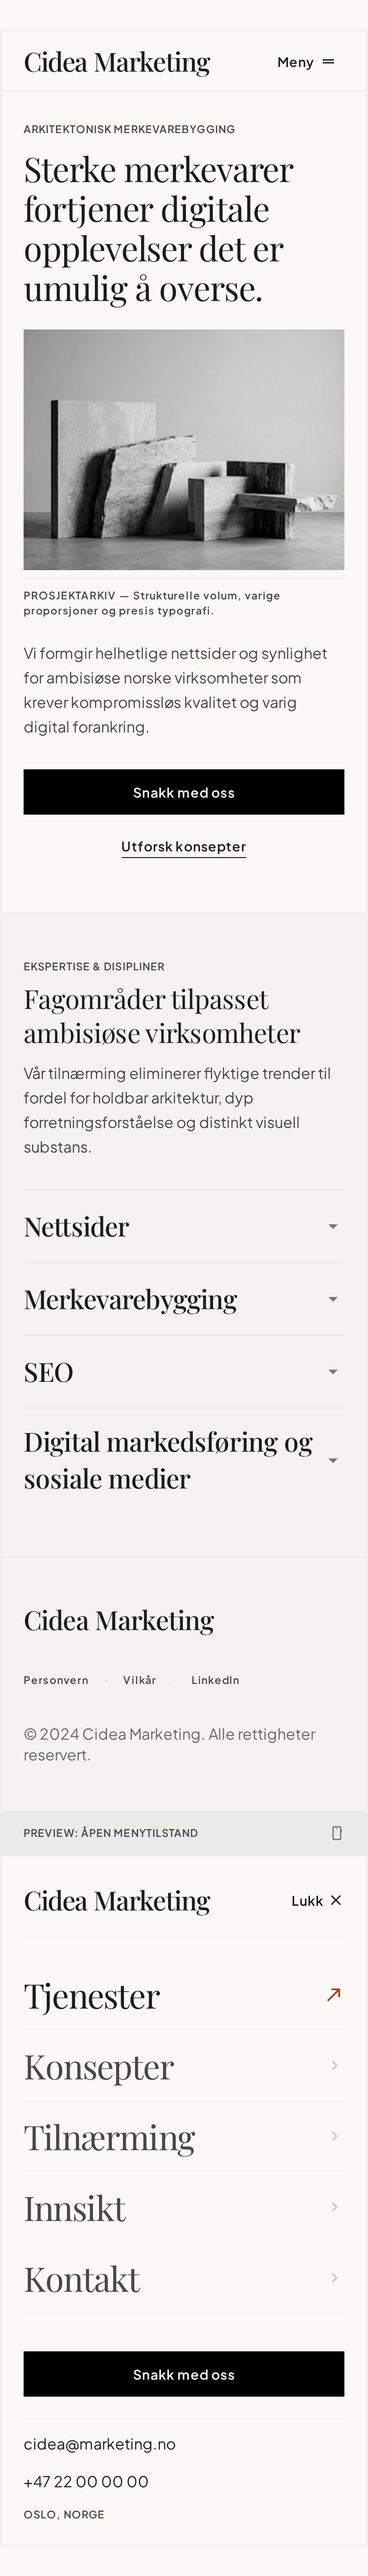
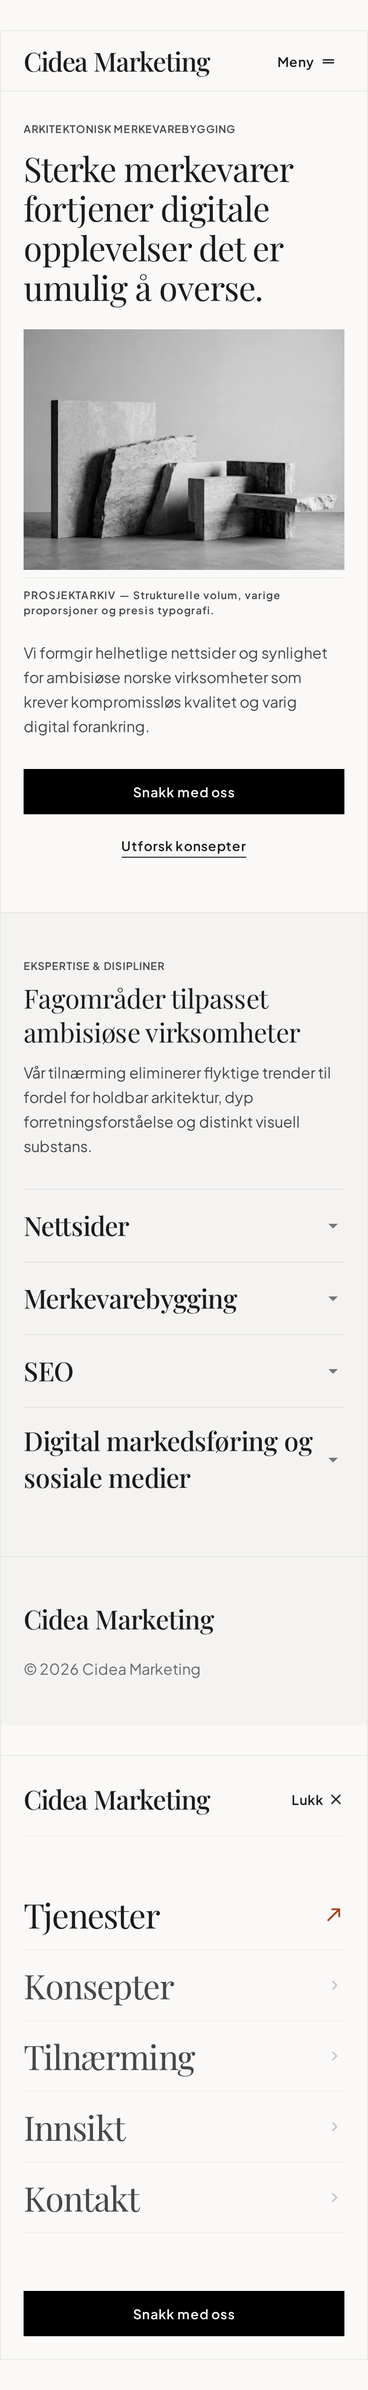
Phase 2: three Stitch directions (A/B/C) with desktop + mobile, fixes, credit/call log

diff --git a/docs/cinematic-pilot/phase2/README.md b/docs/cinematic-pilot/phase2/README.md
@@ -1,41 +1,66 @@
-# Fase 2/9 – tre designretninger i Google Stitch
+# Fase 2/9 – tre designretninger i Google Stitch (runde 1)
 
-**Status:** PÅGÅR. Konsept A er generert (desktop + mobil). B og C er ikke startet; kredittkontrollen er gjennomført, og de er klare for kontrollert generering.
-**Metode:** prompt = [`prompts/00-common.md`](prompts/00-common.md) (felles krav fra `STITCH-CREATIVE-BRIEF.md`) + konseptets retningstekst. Hvert konsept har sitt **eget nye Stitch-prosjekt**, fordi designsystemet ligger på prosjektnivå. Eksisterende Stitch-prosjekter er ikke endret.
-**Kredittramme for runde 1:** maks 200 av 400 daglige kreditter. Startnivå (brukerens avlesning): 0 av 400 brukt. Etter ferdigstilt konsept A viste brukerens kontroll **9 / 400**.
+**Status:** tre konsepter med desktop- og mobilutkast er **klare for visuell vurdering** (ChatGPT + bruker). Ingen retning er valgt. Det er ikke skrevet noe kode. Fasegaten krever at brukeren velger én retning, eller ber om én fokusert revisjonsrunde.
+**Oversikt:** [oversikt-runde1.png](oversikt-runde1.png) viser toppen av alle tre, desktop og mobil side om side.
 
-Stitch-API-et oppgir ikke kredittforbruk, så forbruket leses av i Stitch-kontoen av brukeren etter hvert konsept.
+**Metode:** hver prompt = [`prompts/00-common.md`](prompts/00-common.md) (felles krav fra `STITCH-CREATIVE-BRIEF.md`) + konseptets retningstekst. Hvert konsept fikk sitt **eget nye Stitch-prosjekt**, fordi Stitch lager designsystemet per prosjekt fra første prompt. Farger og fonter er valgt av Stitch, ikke av Claude. Eksisterende Stitch-prosjekter («Cidea Marketing Agency Redesign», «API Key Finder Guide») er **ikke endret**. Alle kall gikk via Stitch MCP-API-et med brukerens nøkkel; ingen betalte tjenester.
 
-## Kredittlogg
+## Konsepter
 
-| Steg | Kall | Modell | Tid | Kreditter totalt etter steg (brukerens avlesning) |
+| | A · Skulpturell redaksjon | B · Digital avantgarde | C · Fremtidig håndverk (v2) |
+|---|---|---|---|
+| Stitch-prosjekt | `8918244886387639826` | `9677197220599622835` | `93182330119187096` |
+| Lenke (krever innlogging) | https://stitch.withgoogle.com/projects/8918244886387639826 | https://stitch.withgoogle.com/projects/9677197220599622835 | https://stitch.withgoogle.com/projects/93182330119187096 |
+| Desktop-skjerm (gjeldende) | `be73bce89b304dabb3e764405d1d4034` | `f13da42ae0d148f5a48a2719c38306f5` | `f16aafa1c71f461da1372bce0cc22e0b` |
+| Mobil-skjerm (gjeldende) | `1bc831a910ee41cfbe2e1d60fc6fa1b0` | `c976791f4cf9450086b576dac9e9b702` | `7e6b5d6aefa94746a7ad3c6d5c93d1c2` |
+| Designsystem | `assets/4045fc3b8df94359b8f5b0ca0c22d540` | `assets/83f5a13c60614bddb715ebc90573c7cb` | `assets/473aa8ea5d1b4f6ab8db120fc0d1e0e2` |
+| Tema | Lyst | Mørkt | Lyst, mettede fargeflater |
+| Fonter (overskrift / tekst / etikett) | Playfair Display / Plus Jakarta Sans / Plus Jakarta Sans | Syne / Hanken Grotesk / Space Mono | Outfit / DM Sans / DM Sans |
+| Farger (primær / sekundær / tertiær / nøytral) | #121316 / #c85a32 / #2a3b32 / #f9f8f6 | #d4ff00 / #8e929b / #20242c / #0b0c0e | #d84a26 / #0d2240 / #1e3b2b / #121417 |
+| Bildespråk | AI-genererte skulpturfoto (stein, monolitter) | AI-generert abstrakt glass/neon-grafikk | Ingen foto; illustrerte fargeflater og former |
+| Skjermbilder | [desktop](concept-A/A-desktop.png) · [mobil](concept-A/A-mobile.png) | [desktop](concept-B/B-desktop.png) · [mobil](concept-B/B-mobile.png) | [desktop](concept-C/C-desktop.png) · [mobil](concept-C/C-mobile.png) |
+
+Alle fontene er Google Fonts (OFL) med æøå. I Stitch-HTML-en lastes de fra CDN; ved implementering skal de selvhostes.
+
+Tidligere versjoner er beholdt for sporbarhet: `*-v1-med-avvik.png` (før retting) og `concept-C/C-desktop-v1-forkastet.png` (C v1, prosjekt `10590880548490262530`, forkastet fordi den lå for nær A og B og brukte 01/02/03-nummerering).
+
+## Teknisk kontroll mot briefen (Claude – ikke estetisk vurdering)
+
+**Rettet med `edit_screens`:**
+- A mobil: oppdiktet kontaktinfo (`cidea@marketing.no`, `+47 22 00 00 00`, «Oslo, Norge»), «© 2024», LinkedIn/Personvern/Vilkår-lenker og etiketten «PREVIEW: ÅPEN MENYTILSTAND» er fjernet.
+- B desktop: overskriften «MARKEDSFØRING» var klippet bak bildekortet. Koordinatene «LOC: 59.91° N…», «AKTIV RAMME», «STATUS: OPERATIV» og den engelske linjen «Nordic Digital Practice // Oslo» er fjernet.
+- B mobil: «MARKED SOM VIRKER» er rettet, og så rettet en ny feil der ordet ble delt («MARKEDSFØRIN/G»). Etiketten «CIDEA // NAV_SYSTEM» er fjernet.
+
+**Gjenstår – til vurdering av ChatGPT/bruker (ikke rettet, for å spare kreditter og ikke overstyre kreativt):**
+
+| Konsept | Funn |
+|---|---|
+| A | Påstander: «Direkte dialog med våre rådgivere og designere», «kompromissløs kvalitet». AI-bilder: rettigheter må avklares. |
+| B | Mobiloverskriften ble tynnere og lysere etter rettingen enn på desktop (typografisk avvik). Etiketter som «Cidea Lab», «Norden», «Kvalitativ presisjon», «DIREKTE DIALOG // OSLO», «Geometri: brutalistisk». AI-grafikk: rettigheter må avklares. B og C bruker samme overskrift. |
+| C | Engelsk ord «Bespoke formgivning», påstanden «100 % fotofri profil», «Eksperiment A/B/C» (bokstavrekkefølge, grenser mot nummereringsregelen), «AKTIV MENY» og «OSLO» på mobil. |
+| Alle | Konsept-kortene viser oppdiktede konseptnavn (merket «Konsept», ingen kunder). Artikkeltitlene i Innsikt er utkast som må godkjennes. Ingen er sjekket for faktisk WCAG-kontrast; det gjøres i kode i fase 5. |
+
+## Kall- og kredittlogg
+
+Stitch-API-et oppgir ikke kreditter. Brukeren leser av i Stitch-kontoen.
+
+| # | Tid | Kall | Resultat | Varighet |
 |---|---|---|---|---|
-| Start | – | – | – | 0 / 400 |
-| A desktop | `generate_screen_from_text` (DESKTOP) | standard | 198 s | *venter på avlesning* |
-| A mobil | `generate_screen_from_text` (MOBILE, samme designsystem) | standard | 110 s | **9 / 400** (bekreftet av brukeren etter A desktop + mobil) |
+| 1 | 17:09 | A desktop · `generate_screen_from_text` | OK | 198 s |
+| 2 | 17:13 | A mobil · `generate_screen_from_text` | OK (med avvik) | 110 s |
+| – | – | *Avlesning bruker: **4 / 400*** | | |
+| 3 | 17:21 | A mobil · `edit_screens` (retting) | OK | 161 s |
+| 4 | 17:21 | B desktop · `generate_screen_from_text` | **Feilet** («The service is currently unavailable» etter 300 s; ingen skjerm etter 10 × 30 s polling) | 300 s |
+| – | – | *Avlesning bruker (under kall 3–4): **9 / 400*** | | |
+| 5 | 17:32 | B desktop · nytt forsøk (én gang) | OK | 238 s |
+| 6 | 17:36 | B mobil · `generate_screen_from_text` | OK (med avvik) | 159 s |
+| 7 | 17:36 | C v1 desktop · `generate_screen_from_text` | OK, men forkastet | 230 s |
+| 8 | 17:39 | B desktop + mobil · `edit_screens` | OK | 96 s |
+| 9 | 17:41 | C v2 desktop · `generate_screen_from_text` | OK | 204 s |
+| 10 | 17:41 | B mobil · `edit_screens` (orddeling) | OK | 72 s |
+| 11 | 17:45 | C v2 mobil · `generate_screen_from_text` | OK | 132 s |
+| – | – | *Sluttavlesning bruker: **venter*** | | |
 
-**Tilgjengelig etter A:** 391 av 400 daglige kreditter; **191 av 200** igjen innenfor den frivillige grensen for første runde. Neste steg: B desktop → B mobil → be brukeren lese av teller → C desktop → C mobil hvis rammen holder. Ikke anta at alle genereringer koster like mye.
+Ramme for runde 1: maks 200 kreditter. Avlesningene tyder på ca. 2–3 kreditter per kall, altså anslagsvis ~25–30 totalt. Det tallet er **ikke verifisert** før sluttavlesningen er ført inn.
 
-## Konsept A – «Skulpturell redaksjon»
-
-- **Stitch-prosjekt:** `projects/8918244886387639826` – «Cidea Fase 2 – Konsept A: Skulpturell redaksjon». Lenke (krever innlogging): https://stitch.withgoogle.com/projects/8918244886387639826
-- **Skjermer:** desktop `be73bce89b304dabb3e764405d1d4034` (2560×11568), mobil (780×5458). Stitch genererte i tillegg to AI-bilder: `0e3f0d9a…`, `b3eed1e1…`.
-- **Designsystem (Stitch-generert):** `assets/4045fc3b8df94359b8f5b0ca0c22d540` «Skulpturell Redaksjon». Lyst tema; Playfair Display (overskrifter) + Plus Jakarta Sans (brødtekst/etiketter); primær #121316, sekundær #c85a32, tertiær #2a3b32, nøytral #f9f8f6. Begge fontene støtter æøå (Google Fonts, OFL).
-- **Skjermbilder:** [desktop](concept-A/A-desktop.png) · [mobil](concept-A/A-mobile.png) · AI-bilder: [1](concept-A/A-bilde-0e3f0d9a.png), [2](concept-A/A-bilde-b3eed1e1.png)
-
-**Teknisk kontroll mot briefen (Claude, ikke estetisk vurdering):**
-
-| Krav | Desktop | Mobil |
-|---|---|---|
-| Kun norsk bokmål | OK | Avvik: «PREVIEW: ÅPEN MENYTILSTAND» |
-| Ingen oppdiktede kontaktdata/kunder/tall | OK | **Avvik: `cidea@marketing.no`, `+47 22 00 00 00`, «Oslo, Norge»** – ikke verifiserte opplysninger |
-| Riktig copyright | «© 2026 Cidea Marketing» OK | **Avvik: «© 2024 … Alle rettigheter reservert.»** |
-| Ingen sosiale ikoner/lenker | OK | Avvik: lenke «LinkedIn» (og «Personvern», «Vilkår» uten sider) |
-| Ingen 01/02/03 | OK | OK |
-| «Konsept»-merking på arbeid | OK | (ikke med i mobilutsnittet) |
-| CTA «Snakk med oss» | OK | OK |
-| Bilder | AI-generert av Stitch – **rettigheter må avklares** før bruk | samme |
-
-Påstander ChatGPT bør vurdere i A: «Direkte dialog med våre rådgivere og designere», «kompromissløs kvalitet», og overskrifter som «Faglige refleksjoner».
-
-**Foreslått retting (ikke utført, koster kreditter):** én `edit_screens` på mobilskjermen som fjerner kontaktdata, LinkedIn/Personvern/Vilkår og preview-etiketten, og setter «© 2026 Cidea Marketing».
+Ikke opprettet/kalt: `create_project` for prosjekter ut over de fire over, `delete_project`, `apply_design_system`, `generate_variants`.

diff --git a/docs/cinematic-pilot/phase2/prompts/C-desktop-v2.md b/docs/cinematic-pilot/phase2/prompts/C-desktop-v2.md
@@ -1,0 +1,14 @@
+**CREATIVE DIRECTION – Konsept C v2: «Fremtidig håndverk» (Future Craft)**
+A gallery-like but playful and vibrant direction that must look nothing like (a) a light editorial magazine with serif headlines and stone photography, or (b) a dark tech site with neon accents.
+
+Make these choices visible:
+- **Colour as architecture:** large, saturated but controlled colour fields and layered colour planes define the sections (several confident colours working as a system, not one accent on white). Text sits on solid colour fields with AA contrast.
+- **No photography at all.** All visuals are original: crafted geometric shapes, cut-paper-like layers, typographic compositions, simple illustrated objects, colour blocks that overlap and interlock.
+- **Playful systematic typography:** a characterful, friendly display typeface (not a high-contrast serif, not a wide techno grotesk) used at large sizes, paired with a clean readable text face.
+- **Modular, exhibition-like layout:** sections composed as asymmetric modules of different sizes that interlock like a curated wall, instead of a uniform row of identical cards. Avoid generic card grids.
+- **Thoughtful transitions:** describe how colour fields slide, unfold or re-arrange between sections (CSS/SVG only, calm reduced-motion fallback).
+- Avoid glassmorphism, gradient blobs, pastel SaaS templates.
+
+Extra strict rules for this screen: never use numbering of any kind as decoration (no "01", "Kategori 01", "Fase 1"); the hero headline must be fully visible, never cut off; no promises about response times; no city names or addresses.
+
+**PLATFORM:** Web, Desktop-first, 1440px wide full homepage.

diff --git a/docs/cinematic-pilot/phase2/prompts/B-fix.md b/docs/cinematic-pilot/phase2/prompts/B-fix.md
@@ -1,0 +1,12 @@
+Targeted corrections only – keep layout, typography, colours, imagery and all other copy exactly as they are.
+
+On the DESKTOP homepage screen:
+1. The hero headline word "MARKEDSFØRING" is clipped behind the image card on the right. Make the full headline "Design som merkes. Markedsføring som virker." fully visible and legible (reflow or resize the type or the card; nothing may overlap or be cut off).
+2. Remove the coordinate readout "LOC: 59.9139° N, 10.7522° E // OSLO" and the labels "AKTIV RAMME" and "STATUS: OPERATIV" on the hero card. Keep the image.
+3. In the footer, remove the English line "Nordic Digital Practice // Oslo" and the text "DIGITAL AVANTGARDE". Keep "© 2026 Cidea Marketing" (remove "Alle rettigheter forbeholdt.").
+
+On the MOBILE screen:
+4. The hero headline reads "MARKED SOM VIRKER" – correct it to the same headline as desktop: "Design som merkes. Markedsføring som virker." Make sure "Markedsføring" fits on the narrow screen without being cut.
+5. Remove the label "CIDEA // NAV_SYSTEM" and its icon above the open menu.
+
+All visible text must remain Norwegian Bokmål.

diff --git a/docs/cinematic-pilot/phase2/prompts/A-mobile-fix.md b/docs/cinematic-pilot/phase2/prompts/A-mobile-fix.md
@@ -1,0 +1,5 @@
+Targeted corrections on this mobile screen only – keep everything else (layout, typography, colours, images, copy) exactly as it is:
+1. In the open menu panel, remove the contact block entirely: the email address "cidea@marketing.no", the phone number "+47 22 00 00 00" and "OSLO, NORGE". These are not verified details and must not appear.
+2. In the footer, remove the links "Personvern", "Vilkår" and "LinkedIn". Keep the wordmark. Replace the copyright line with exactly "© 2026 Cidea Marketing".
+3. Remove the grey strip labelled "PREVIEW: ÅPEN MENYTILSTAND" and its icon. Separate the open-menu panel from the page with spacing only, no label.
+All visible text must stay Norwegian Bokmål.

diff --git a/docs/cinematic-pilot/phase2/prompts/B-mobile-fix2.md b/docs/cinematic-pilot/phase2/prompts/B-mobile-fix2.md
@@ -1,0 +1,2 @@
+Targeted correction on this mobile screen only – keep everything else unchanged.
+The hero headline currently breaks the word "MARKEDSFØRING" in the middle ("MARKEDSFØRIN" / "G"). Reduce the hero headline font size on mobile just enough that the longest word "MARKEDSFØRING" fits on one line at 390px width, so the headline reads in four lines: "DESIGN SOM" / "MERKES." / "MARKEDSFØRING" / "SOM VIRKER." No word may ever be split.
